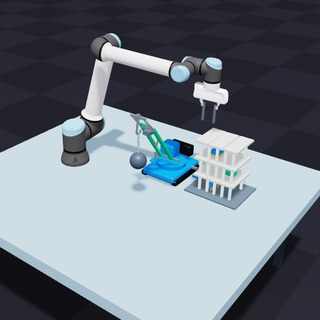
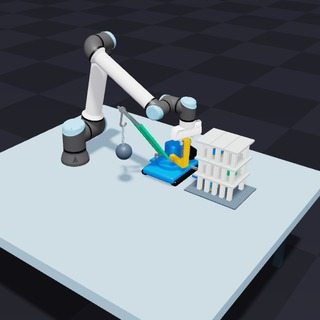
Fix crane grasp and verify ball-driven demolition
Add a broad side handle, align the finger contact center, and drive
a simple slew path with compensated robot targets. Widen the building
columns so the untouched structure remains stable for 15 seconds.

Require bilateral handle contact, substantial slew, and ball/building
contact before accepting demolition. The previous crane fails the
new impact check. Validate the idle control and all five CUDA tests
at four substeps and 12 solver iterations, and rerender in Newton.

diff --git a/newton/examples/robot/_wrecking_crane.py b/newton/examples/robot/_wrecking_crane.py
@@ -42,7 +42,7 @@ def building(b, center):
             for y in (-0.075, 0.075):
                 piece(
                     (center[0] + x, center[1] + y, z + 0.049),
-                    (0.007, 0.007, 0.049),
+                    (0.012, 0.012, 0.049),
                     column_cfg,
                     f"demolition_column_{floor}",
                     (0.82, 0.83, 0.79),
@@ -119,41 +119,39 @@ def populate(b, info, ee, down, device, variant):
             vi = b.joint_qd_start[j]
             b.joint_target_ke[vi], b.joint_target_kd[vi] = 4000, 40
             b.joint_effort_limit[vi] = 40
-    pivot = base + np.array([0, -0.06, 0.142])
-    lever = np.array([0, -0.20, 0.268])
+    # A side-mounted vertical grip gives the fingers broad opposing faces.
+    # Its circular path drives only the passive slew through contact.
+    lever = np.array([0.14, 0.0, 0.24])
 
-    def control_point(lift, slew):
-        q = wp.quat_rpy(0.0, 0.0, float(slew))
-        rotated_pivot = base + np.asarray(wp.quat_rotate(q, wp.vec3(*(pivot - base))))
-        return rotated_pivot + np.asarray(wp.quat_rotate(wp.quat_rpy(float(lift), 0.0, float(slew)), wp.vec3(*lever)))
+    def control_point(slew):
+        return base + np.asarray(wp.quat_rotate(wp.quat_rpy(0.0, 0.0, float(slew)), wp.vec3(*lever)))
 
-    first = control_point(0, 0)
-    poses = [(0, first + np.array([0, 0, 0.17]), 0.018), (1, first, 0.018), (1.8, first, 0.004)]
+    first = control_point(0)
+    poses = [(0, first + np.array([0, 0, 0.17]), 0.04), (1, first, 0.04), (1.8, first, 0.004)]
     phases = [
-        (3.2, -0.12, -0.4),
-        (4.0, -0.12, -0.4),
-        (5.4, -0.12, 1.65),
-        (5.55, -0.12, 1.65),
+        (3.2, -0.4),
+        (4.0, -0.4),
+        (5.4, 1.65),
+        (5.55, 1.65),
     ]
-    previous_time, previous_lift, previous_slew = 1.8, 0.0, 0.0
-    for time, lift, slew in phases:
+    previous_time, previous_slew = 1.8, 0.0
+    for time, slew in phases:
         count = max(1, math.ceil((time - previous_time) / 0.055))
         for j in range(1, count + 1):
             u = j / count
             ease = u * u * (3 - 2 * u)
             angle = previous_slew + ease * (slew - previous_slew)
-            tilt = previous_lift + ease * (lift - previous_lift)
             poses.append(
                 (
                     previous_time + (time - previous_time) * u,
-                    control_point(tilt, angle),
+                    control_point(angle),
                     0.004,
                     wp.quat_rpy(0.0, 0.0, angle) * down,
                 )
             )
-        previous_time, previous_lift, previous_slew = time, lift, slew
+        previous_time, previous_slew = time, slew
     turned = wp.quat_rpy(0.0, 0.0, 1.65) * down
-    last = control_point(-0.12, 1.65)
+    last = control_point(1.65)
     poses.extend(
         [
             (5.85, last, 0.035, turned),
@@ -162,8 +160,9 @@ def populate(b, info, ee, down, device, variant):
             (15, last + np.array([0, 0, 0.18]), 0.035, turned),
         ]
     )
-    info["waypoints"] = plan_ik(b, ee, (0, 0, 0.1934), poses, device, desired_rotation=down)
+    info["waypoints"] = plan_ik(b, ee, (0, 0, 0.1434), poses, device, desired_rotation=down)
     info["dense_waypoints"] = True
+    info["integral_drive_count"] = 6
     joint_start = b.joint_count
     mapping, _ = import_object(
         b,
@@ -181,7 +180,10 @@ def populate(b, info, ee, down, device, variant):
             b.joint_damping[vi] = 0.05
         elif b.joint_label[j] in ("crane/crane.slew.q", "crane/hook.swing.q"):
             b.joint_damping[vi] = 0.006
-    box(b, (first[0], first[1], first[2] - 0.025), (0.022, 0.024, 0.012), (0.31, 0.36, 0.40), label="crane_boom_stop")
+    handle = b.add_link(xform=tf(base), label="crane_grasp_handle")
+    b.add_joint_fixed(mapping["crane.slew"], handle, label="crane_handle_mount")
+    box(b, (0.07, 0, 0.12), (0.07, 0.015, 0.015), (0.96, 0.61, 0.065), handle, "handle_support")
+    box(b, (0.14, 0, 0.21), (0.015, 0.018, 0.09), (0.96, 0.61, 0.065), handle, "grasp_handle")
     hook_local = np.array([0, -0.338, 0.416])
     top = base + hook_local
     count, link_length, radius = 5, 0.025, 0.049
@@ -245,6 +247,10 @@ def populate(b, info, ee, down, device, variant):
         demolition_half_sizes=sizes,
         demolition_upper_floors=floors,
         demolition_furniture=furniture,
+        crane_handle=handle,
+        crane_fingers=[
+            i for i, label in enumerate(b.body_label) if label.endswith(("/fr3_leftfinger", "/fr3_rightfinger"))
+        ],
         crane_slew=mapping["crane.slew"],
         crane_boom=mapping["boom.lift"],
         crane_hook=mapping["hook.swing"],

diff --git a/newton/examples/robot/example_fpgs_wrecking_ball.py b/newton/examples/robot/example_fpgs_wrecking_ball.py
@@ -20,17 +20,45 @@ class Example(TabletopDemo):
     def populate(self, builder, info, ee, down, fingers):
         _wrecking_crane.populate(builder, info, ee, down, wp.get_device(), 0)
 
+    def reset(self):
+        super().reset()
+        self.ball_struck_building = False
+        self.slew_min = self.slew_max = 0.0
+        self.grasp_frames = 0
+
     def test_post_step(self):
-        """Keep the building stable until the arm starts the strike."""
+        """Require grasp, slew and ball impact, not a spontaneous collapse."""
         super().test_post_step()
-        if 3.8 < self.sim_time < 4.0:
+        poses = self.state_0.body_q.numpy()
+        q = poses[self.info["crane_slew"], 3:]
+        angle = float(2 * np.arctan2(q[2], q[3]))
+        self.slew_min = min(self.slew_min, angle)
+        self.slew_max = max(self.slew_max, angle)
+        count = int(self.contacts.rigid_contact_count.numpy()[0])
+        owners = self.model.shape_body.numpy()
+        shapes_a = self.contacts.rigid_contact_shape0.numpy()[:count]
+        shapes_b = self.contacts.rigid_contact_shape1.numpy()[:count]
+        pairs = {(int(owners[a]), int(owners[b])) for a, b in zip(shapes_a, shapes_b, strict=True) if a >= 0 and b >= 0}
+
+        def touching(a, b):
+            return (a, b) in pairs or (b, a) in pairs
+
+        if all(touching(finger, self.info["crane_handle"]) for finger in self.info["crane_fingers"]):
+            self.grasp_frames += 1
+        self.ball_struck_building |= any(
+            touching(self.info["tracked_body"], body) for body in self.info["demolition_structure"]
+        )
+        if not self.ball_struck_building:
             floors = self.info["demolition_upper_floors"]
-            drop = self.initial.body_q.numpy()[floors, 2] - self.state_0.body_q.numpy()[floors, 2]
-            assert np.max(np.abs(drop)) < 0.025, f"Building collapsed before impact: {drop}"
+            drop = self.initial.body_q.numpy()[floors, 2] - poses[floors, 2]
+            assert np.max(np.abs(drop)) < 0.025, f"Building moved before ball impact: {drop}"
 
     def test_final(self):
         """Verify that the ball stays attached and the upper floors collapse."""
         self.check_capacity()
+        assert self.grasp_frames >= 20, f"Handle was not held between both fingers: {self.grasp_frames} frames"
+        assert self.slew_max - self.slew_min > 1.0, "Crane did not rotate through the strike"
+        assert self.ball_struck_building, "Ball never contacted the building"
         poses = self.state_0.body_q.numpy()
         floors = self.info["demolition_upper_floors"]
         drop = self.initial.body_q.numpy()[floors, 2] - poses[floors, 2]

diff --git a/newton/tests/test_fpgs_tabletop.py b/newton/tests/test_fpgs_tabletop.py
@@ -3,12 +3,14 @@
 """Check state-buffer reuse in the interactive tabletop examples."""
 
 import unittest
+from types import SimpleNamespace
 
 import numpy as np
 import warp as wp
 
 import newton
 from newton.examples.robot._tabletop_demo import TabletopDemo
+from newton.examples.robot.example_fpgs_wrecking_ball import Example
 from newton.solvers import SolverFeatherPGS
 from newton.tests.unittest_utils import add_function_test, get_selected_cuda_test_devices
 from newton.viewer import ViewerNull
@@ -66,6 +68,31 @@ for count in (1, 2, 3, 4):
         devices=get_selected_cuda_test_devices(),
         substeps=count,
     )
+
+
+def test_wrecking_ball_idle(test, device):
+    """The unstruck building must stand for the entire demonstration."""
+    with wp.ScopedDevice(device):
+        example = Example(ViewerNull(), SimpleNamespace(substeps=4, iterations=12, test=True))
+        example.autoplay = False
+        for _ in range(900):
+            example.step()
+            example.test_post_step()
+        test.assertFalse(example.ball_struck_building)
+        example.check_capacity()
+
+
+class TestWreckingBallStability(unittest.TestCase):
+    pass
+
+
+add_function_test(
+    TestWreckingBallStability,
+    "test_idle_building",
+    test_wrecking_ball_idle,
+    devices=get_selected_cuda_test_devices(),
+)
+
 
 if __name__ == "__main__":
     unittest.main()

diff --git a/newton/examples/assets/fpgs_tabletop/README.rst b/newton/examples/assets/fpgs_tabletop/README.rst
@@ -11,7 +11,8 @@ Use the side panel to stop automatic robot commands, move the robot path
 slider, or reset. Drag dynamic bodies with the viewer's picking tool to apply
 forces. The path slider changes actuator targets; it never overwrites object
 poses. The crane's slew, boom, chain and ball are passive. Its arm releases
-the handle after slewing. All three rack plates are free bodies.
+the yellow side handle after slewing. Its broad opposing faces let the
+gripper turn the crane through contact without a grasp weld or crane motor. All three rack plates are free bodies.
 
 The default budget is four substeps at 60 Hz and 12 PGS iterations. Override
 with ``--substeps`` and ``--iterations``. Run ``--viewer null --test`` for the
